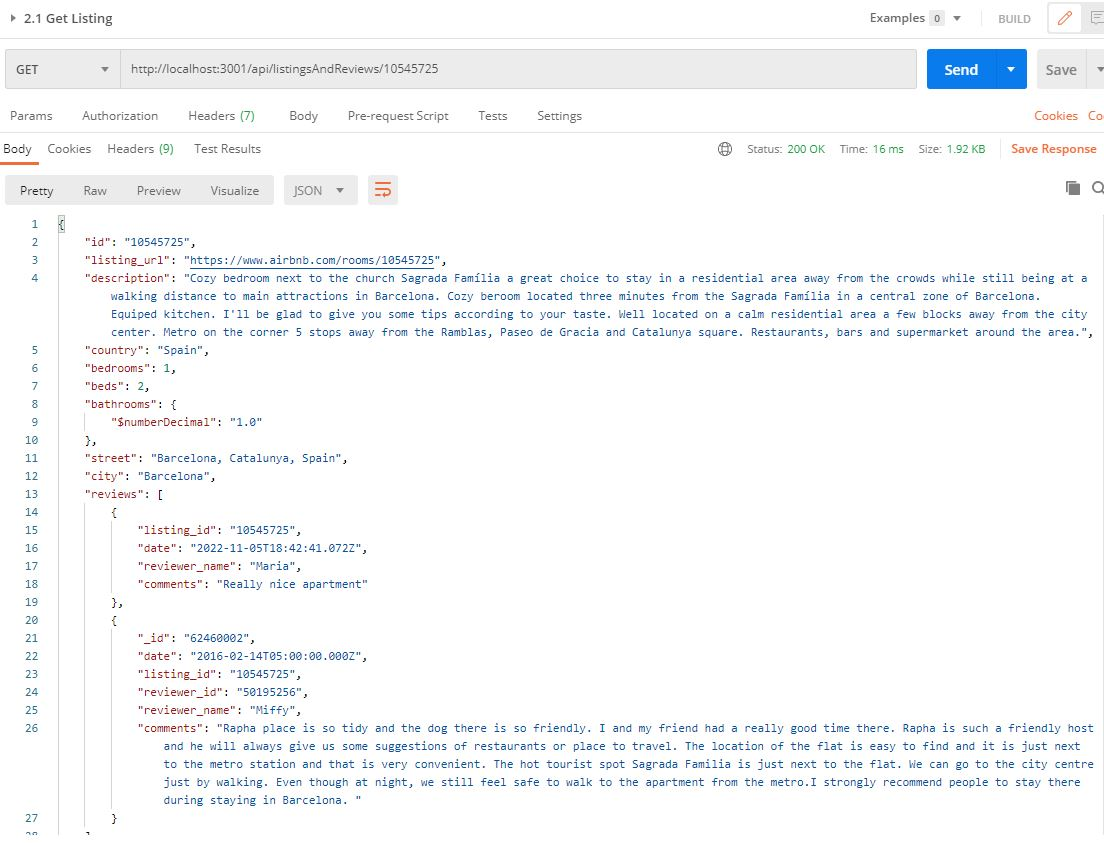
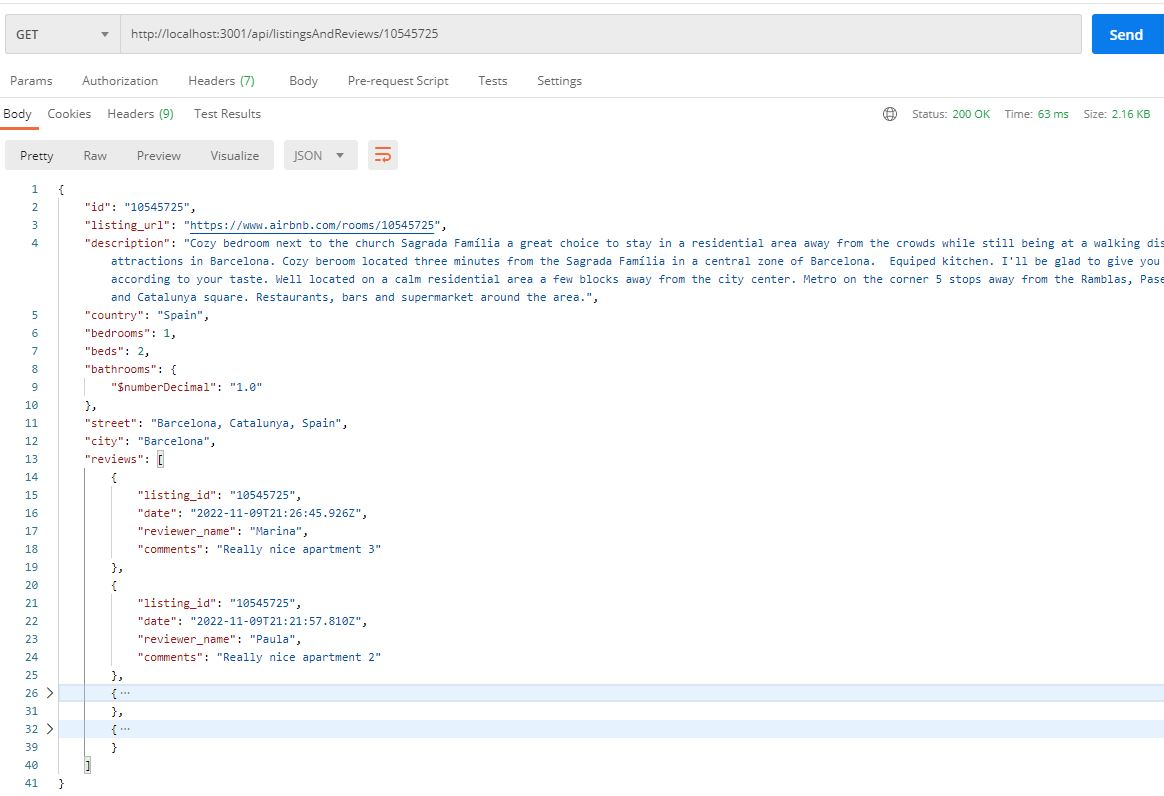
Updated Readme.md

diff --git a/1.essential/README.md b/1.essential/README.md
@@ -135,18 +135,18 @@ You can find the Postman requests collection [here](Listing_And_Reviews_Rest_Api
       ![GetWrongListing](images/Postman_GetListing_Wrong.JPG)
 
 * Request to add a new review for the "10545725" listing:
-   * URL: `http://localhost:3001/api/listingsAndReviews`
+   * URL: `http://localhost:3001/api/listingsAndReviews/10545725`
    * BODY:
       ```
       {
-         "comments": "Really nice flat 13",    
-         "reviewer_name": "Maria",
+         "comments": "Really nice apartment 3",
+         "reviewer_name": "Marina",
          "listing_id": "10545725"
       }
       ```
       ![PutAddAReview](images/Postman_AddOneReview_1.JPG)
       
-      In the following picture you can see that the review has been added into 10545725 listing and it's displayed the first one because is the newest one. 
+      The date has been created automatically. In the following picture you can see that the review has been added into 10545725 listing and it's displayed the first one because is the newest one.   
       ![GetExistingListing_2](images/Postman_AddOneReview_2.JPG)
 
 Here, you can see all the requests made:
